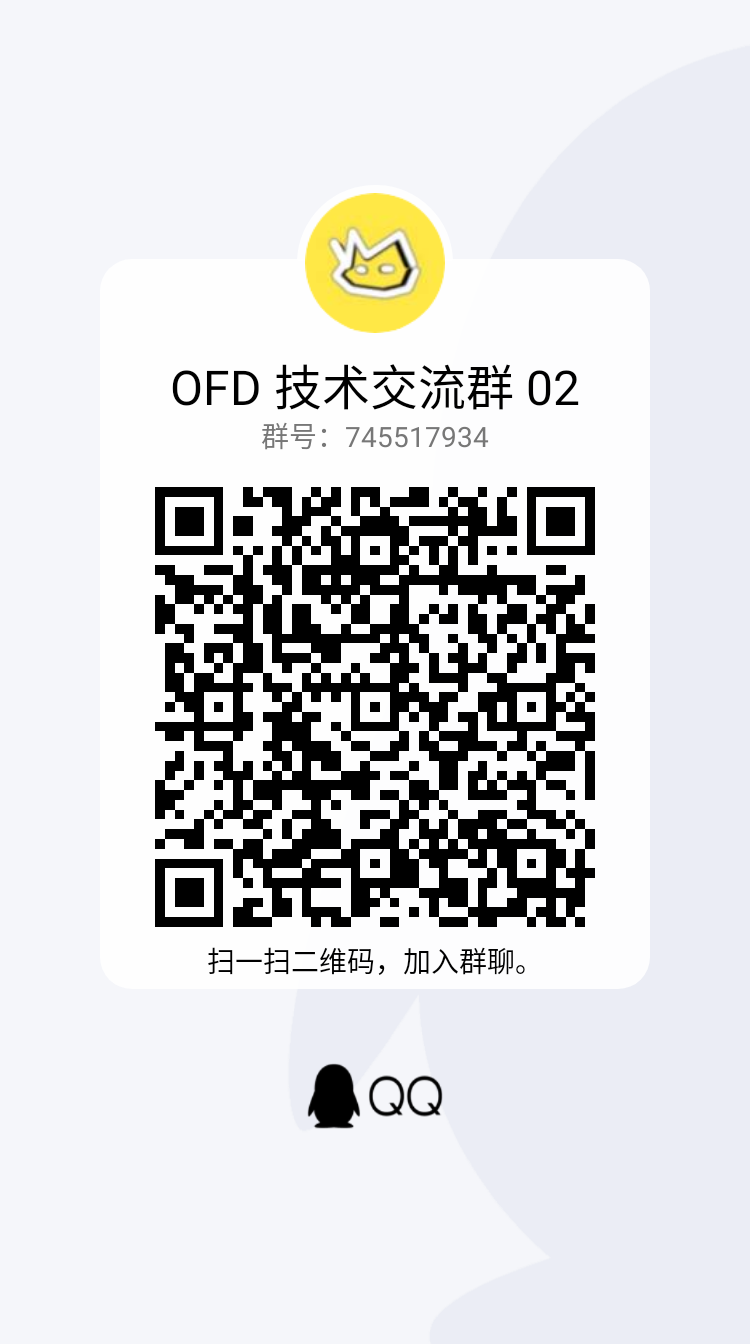
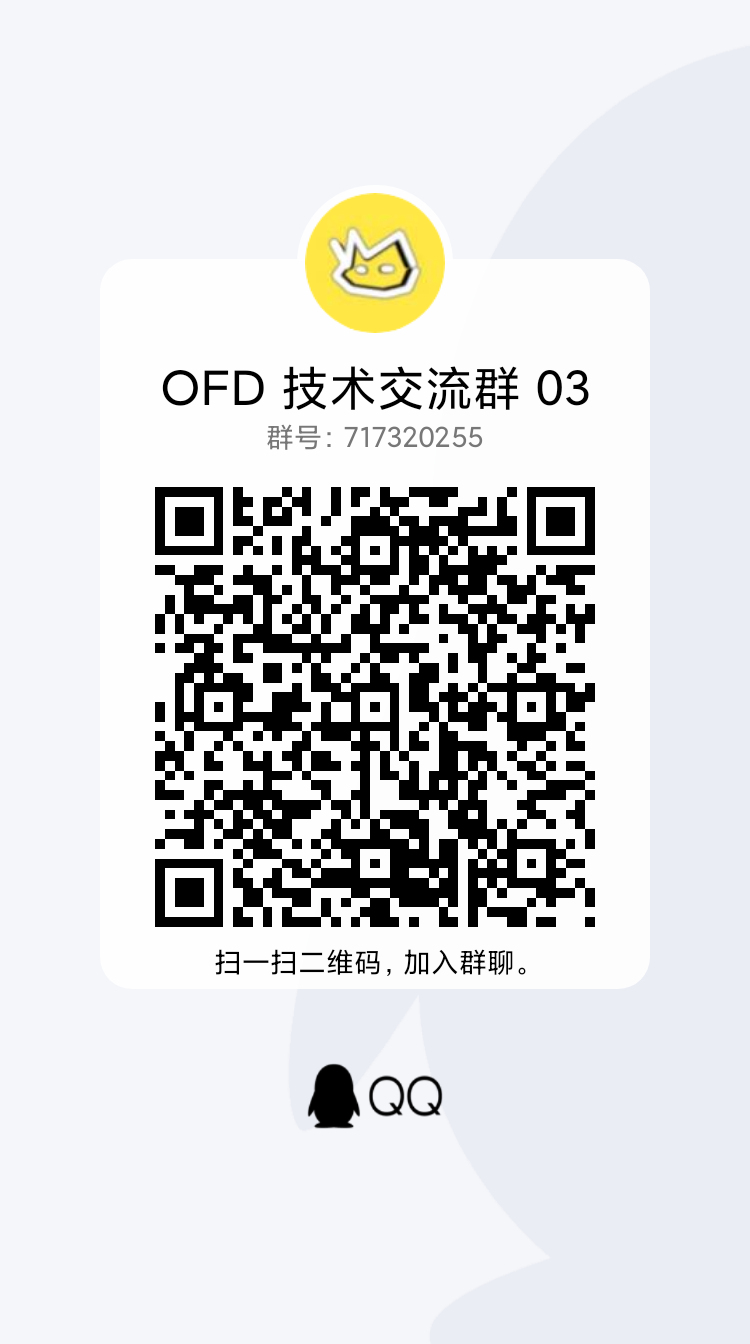
群地址更新

Changed region(s): [[0.184, 0.25, 0.7973, 0.75], [0.2147, 0.25, 0.3067, 0.3125]]

diff --git a/README.md b/README.md
@@ -133,7 +133,8 @@ mvn install
 为了方便大家的交流提供QQ群
 
 > - 01群号： **577682453** *（满）*
-> - 02群号： **745517934**
+> - 02群号： **745517934** *（满）*
+> - 03群号： **717320255**
 
 ![QQ群](./img/QQLink.png)
 
